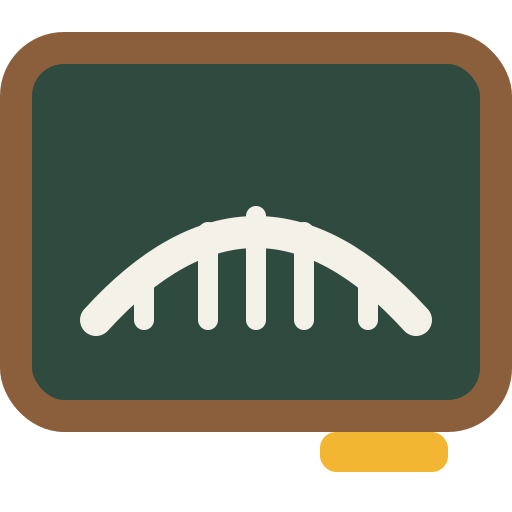
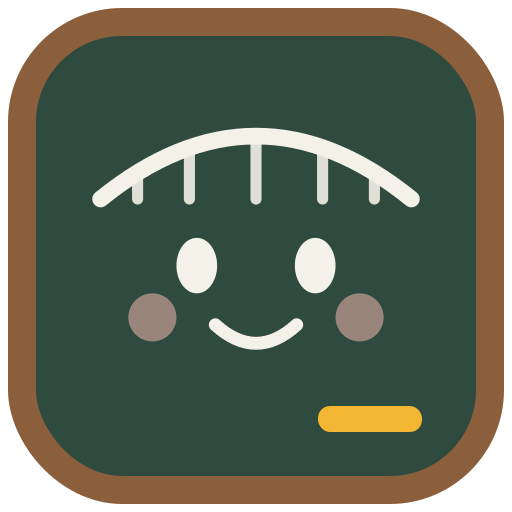
Ícono: carita del pizarrón (como la firma); sw pictos-v15

diff --git a/web/sw.js b/web/sw.js
@@ -1,5 +1,5 @@
 // Red primero (para ver siempre la última versión), caché si no hay conexión.
-const C = 'pictos-v14';
+const C = 'pictos-v15';
 self.addEventListener('install', e => { self.skipWaiting(); e.waitUntil(caches.open(C).then(c => c.addAll(['./', 'index.html', 'cuaderno.html', 'admin.html', 'seed.js', 'estilo.css', 'familia.html', 'login.html', 'docente.html', 'cuenta.js', 'pie.js', 'pizarron.js', 'privacidad.html', 'terminos.html', 'manifest.json', 'icono.svg', 'icono-192.png', 'icono-512.png']))); });
 self.addEventListener('activate', e => e.waitUntil(caches.keys().then(ks => Promise.all(ks.filter(k => k !== C).map(k => caches.delete(k)))).then(() => self.clients.claim())));
 self.addEventListener('fetch', e => {
